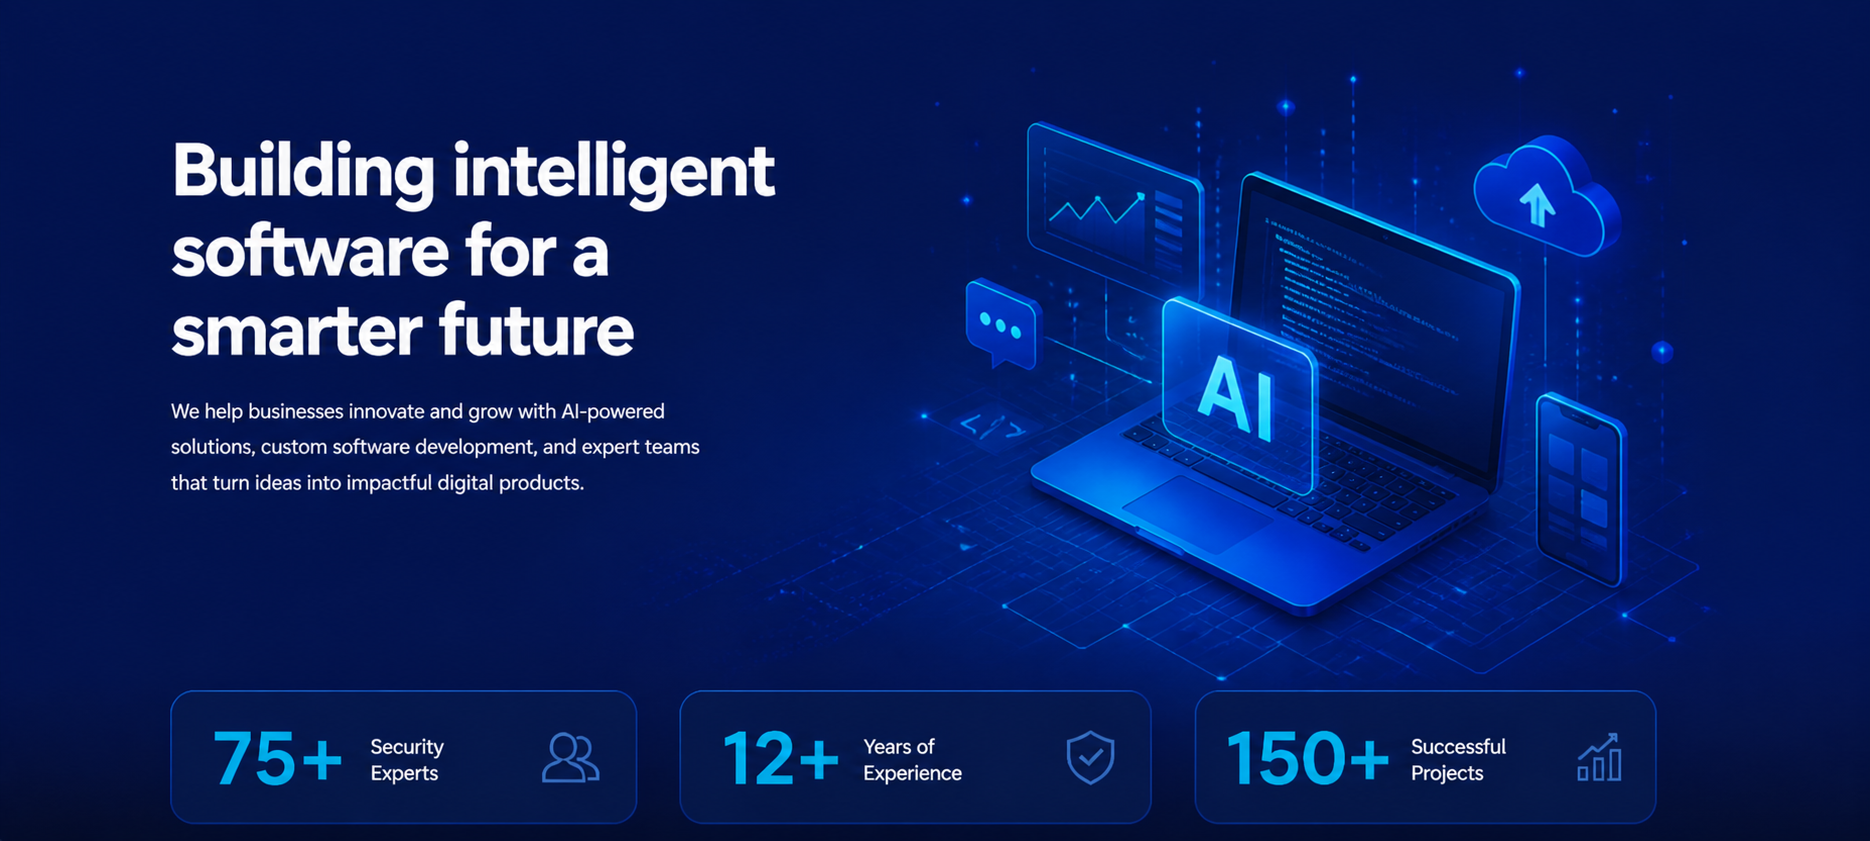
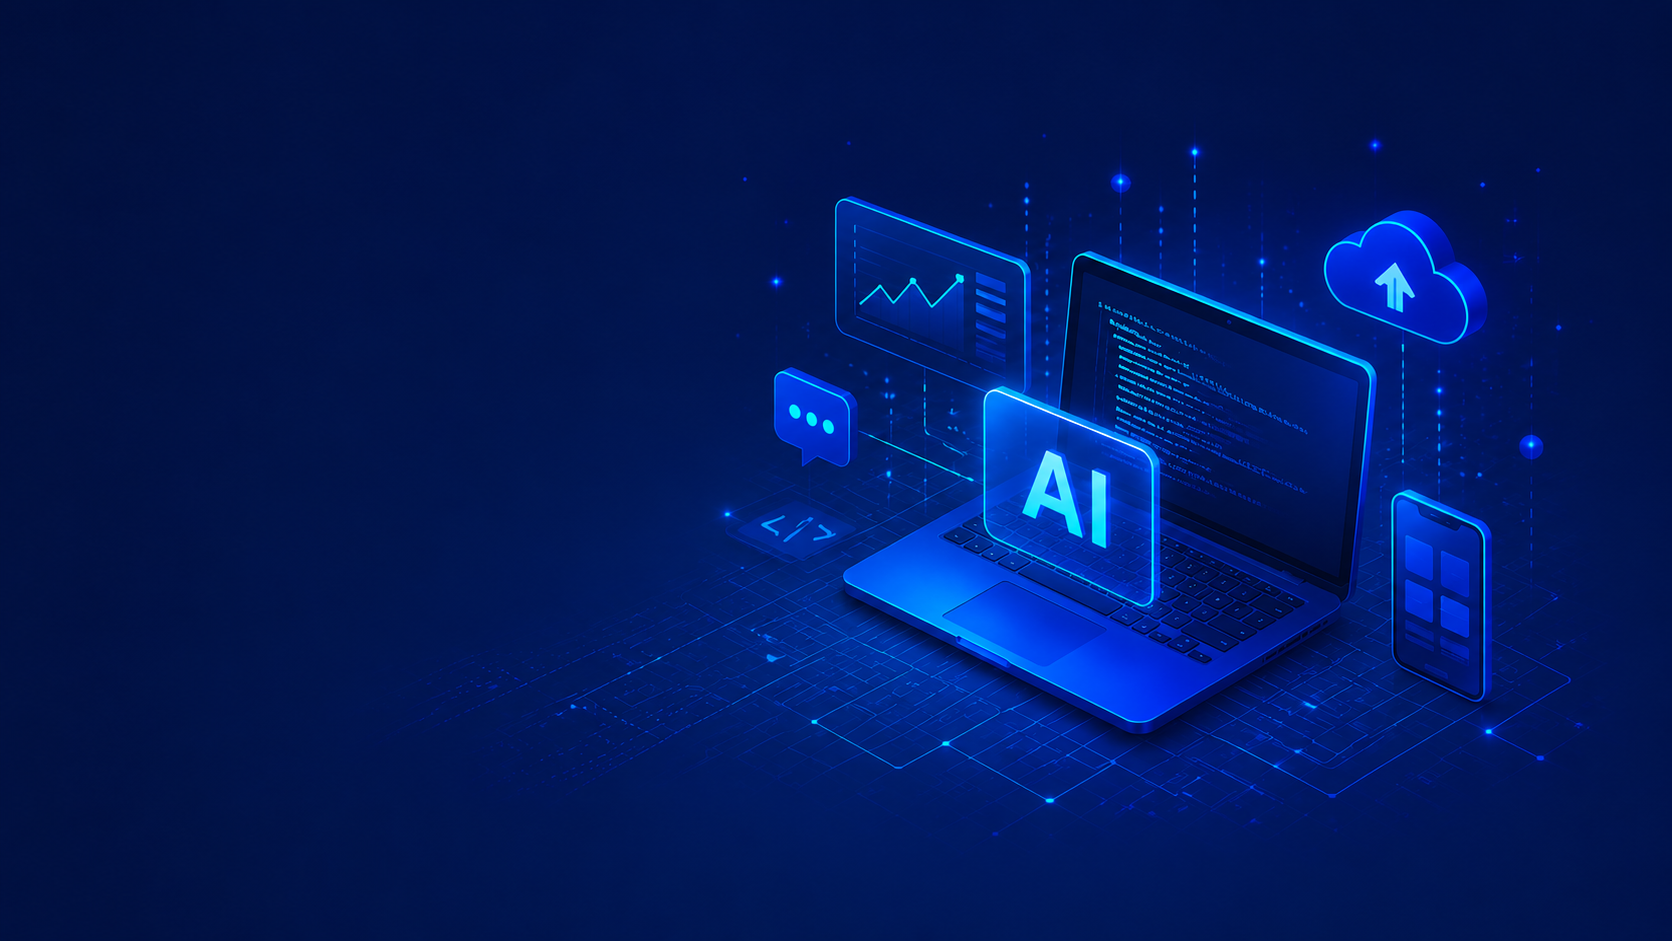
fix: hero image and number experience

diff --git a/src/pages/home/components/Hero.jsx b/src/pages/home/components/Hero.jsx
@@ -1,14 +1,90 @@
 import heroImg from "../../../assets/hero.png";
+import Container from "../../../components/ui/Container";
+import { motion } from "framer-motion";
+import { Users, ShieldCheck, BarChart3 } from "lucide-react";
 
 export default function Hero() {
   return (
     <section
-      className="relative min-h-[95vh] w-full pt-24 pb-20"
+      className="relative min-h-screen overflow-hidden text-white"
       style={{
         backgroundImage: `url(${heroImg})`,
         backgroundSize: "cover",
         backgroundPosition: "center",
       }}
-    />
+    >
+      {/* OVERLAY */}
+      <div className="absolute inset-0 bg-black/15 z-0" />
+
+      <Container>
+        <div className="relative z-10 flex flex-col justify-center min-h-screen py-20">
+          <motion.div
+            initial={{ opacity: 0, y: 70 }}
+            animate={{ opacity: 1, y: 0 }}
+            transition={{ duration: 0.9 }}
+            className="w-full"
+          >
+            {/* TEXT CONTENT */}
+            <div className="max-w-190">
+              <h1 className="text-[56px] md:text-[80px] leading-[1.05] font-extrabold tracking-[-2px]">
+                Building intelligent
+                <br />
+                software for a
+                <br />
+                smarter future
+              </h1>
+
+              <p className="mt-8 text-[19px] leading-relaxed text-[#D5DDF5] font-light max-w-170">
+                We help businesses innovate and grow with AI-powered solutions,
+                custom software development, and expert teams that turn ideas into
+                impactful digital products.
+              </p>
+            </div>
+
+            {/* STATS GRID */}
+            <div className="mt-32 grid grid-cols-1 md:grid-cols-3 gap-6 w-full">
+              {/* CARD 1 */}
+              <div className="relative overflow-hidden rounded-3xl border border-cyan-400/20 bg-[#07133D]/80 backdrop-blur-xl px-8 py-6 flex items-center justify-between shadow-lg">
+                <div>
+                  <h3 className="text-[52px] font-extrabold leading-none text-[#00AFFF]">
+                    75+
+                  </h3>
+                  <p className="mt-2 text-[20px] leading-tight text-white/90 font-medium">
+                    Security Experts
+                  </p>
+                </div>
+                <Users size={48} strokeWidth={1.5} className="text-[#3A7BFF] opacity-80" />
+              </div>
+
+              {/* CARD 2 */}
+              <div className="relative overflow-hidden rounded-3xl border border-cyan-400/20 bg-[#07133D]/80 backdrop-blur-xl px-8 py-6 flex items-center justify-between shadow-lg">
+                <div>
+                  <h3 className="text-[52px] font-extrabold leading-none text-[#00AFFF]">
+                    18+
+                  </h3>
+                  <p className="mt-2 text-[20px] leading-tight text-white/90 font-medium">
+                    Years of Experience
+                  </p>
+                </div>
+                <ShieldCheck size={48} strokeWidth={1.5} className="text-[#3A7BFF] opacity-80" />
+              </div>
+
+              {/* CARD 3 */}
+              <div className="relative overflow-hidden rounded-3xl border border-cyan-400/20 bg-[#07133D]/80 backdrop-blur-xl px-8 py-6 flex items-center justify-between shadow-lg">
+                <div>
+                  <h3 className="text-[52px] font-extrabold leading-none text-[#00AFFF]">
+                    150+
+                  </h3>
+                  <p className="mt-2 text-[20px] leading-tight text-white/90 font-medium">
+                    Successful Projects
+                  </p>
+                </div>
+                <BarChart3 size={48} strokeWidth={1.5} className="text-[#3A7BFF] opacity-80" />
+              </div>
+            </div>
+          </motion.div>
+        </div>
+      </Container>
+    </section>
   );
 }

diff --git a/src/pages/home/components/About.jsx b/src/pages/home/components/About.jsx
@@ -54,7 +54,7 @@ export default function About() {
             viewport={{ once: true }}
           >
             <div className="p-6 bg-white rounded-2xl shadow-lg hover:shadow-xl transition hover:-translate-y-1">
-              <h3 className="text-2xl font-bold text-blue-500">12+</h3>
+              <h3 className="text-2xl font-bold text-blue-500">18+</h3>
               <p className="text-gray-600 mt-2">Years Experience</p>
             </div>
 

diff --git a/src/pages/about-us/components/TeamStats.jsx b/src/pages/about-us/components/TeamStats.jsx
@@ -11,7 +11,7 @@ const stats = [
     label: "Global Clients",
   },
   {
-    number: "12+",
+    number: "18+",
     label: "Years Experience",
   },
   {
